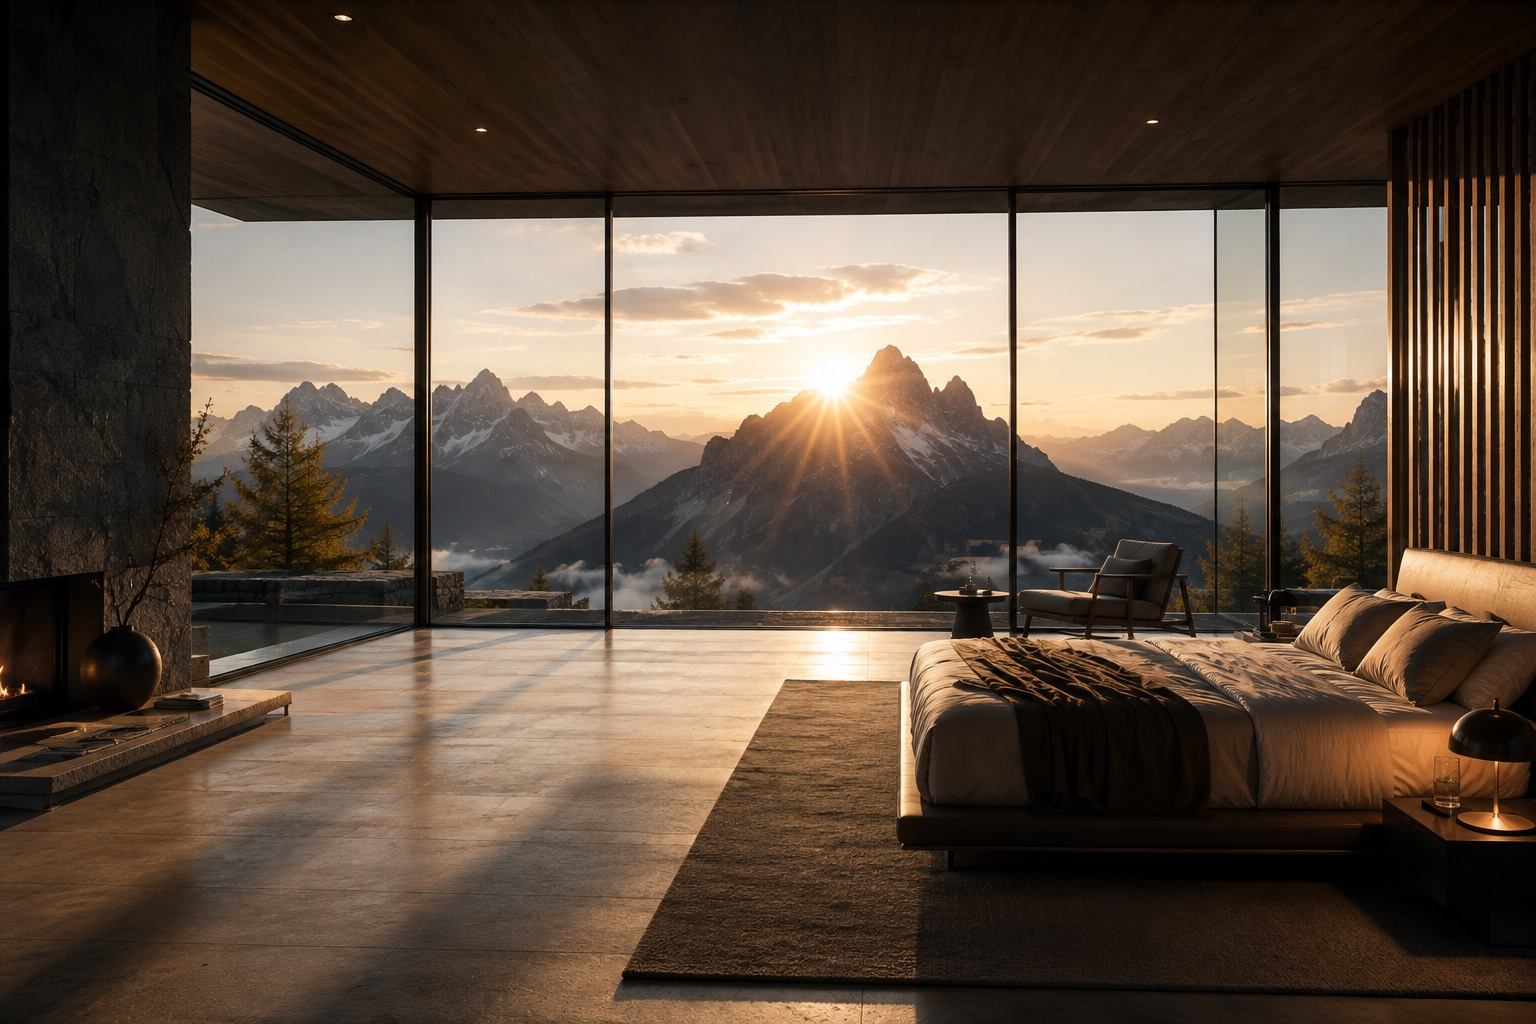
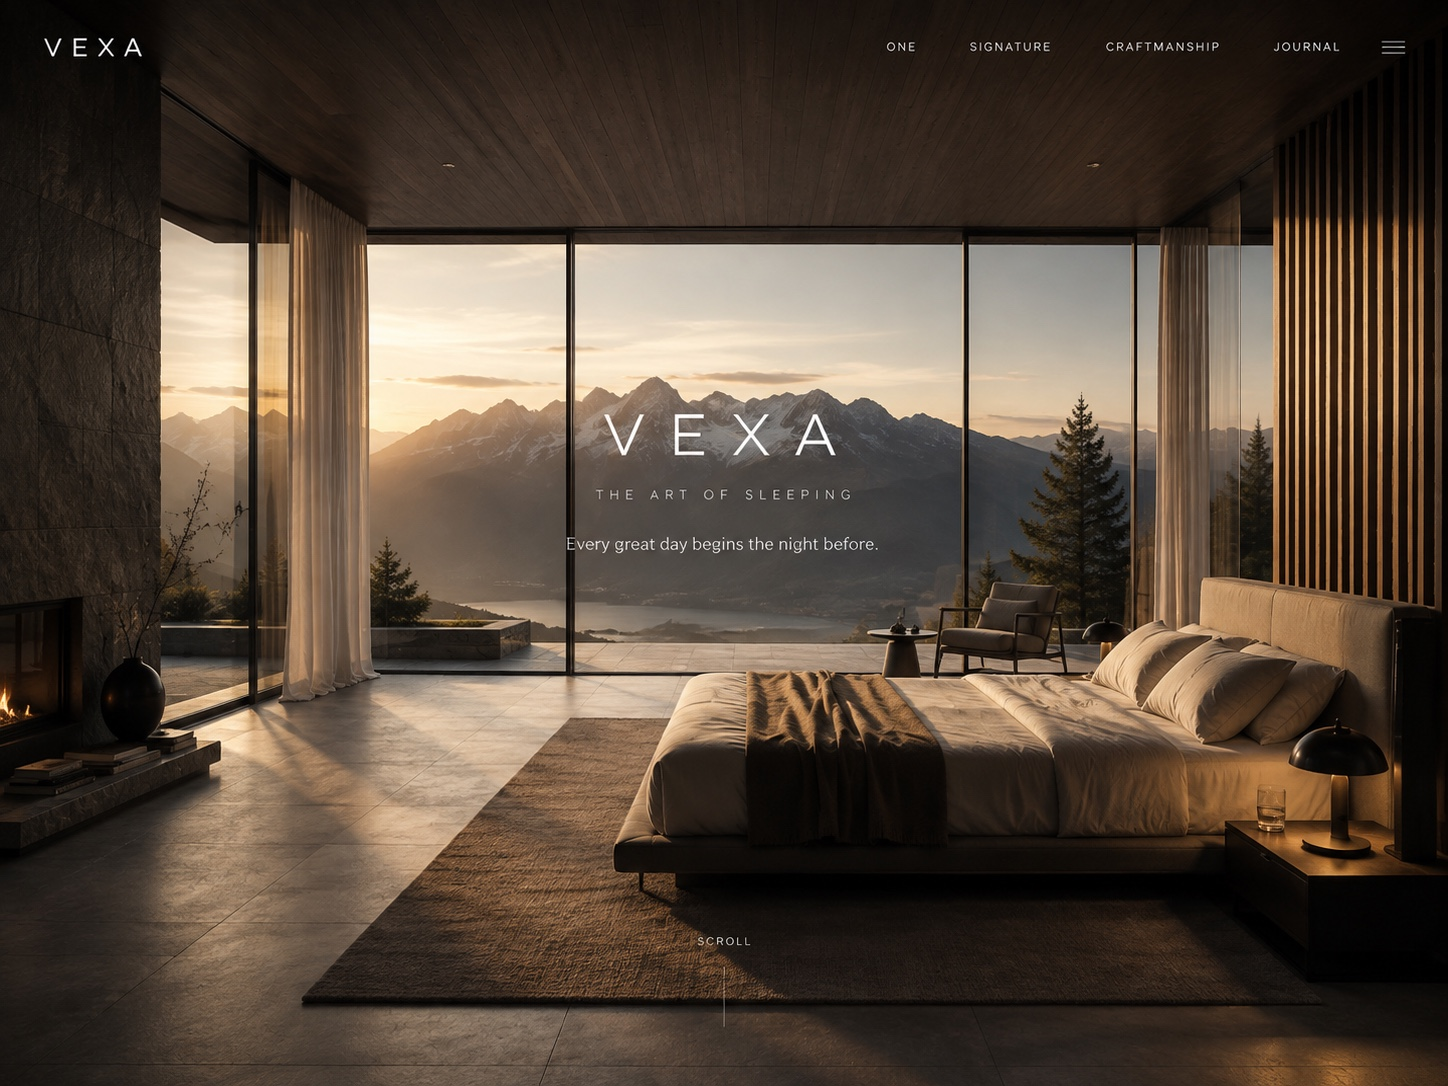
Use the approved mockup photo as-is; drop the competing text overlay
- Replace public/hero-villa.jpg with the newly supplied reference photo
  (unmodified)
- That photo already composes its own typography and nav treatment into
  the pixels, so IntroScene no longer renders a separate animated logo/
  kicker/headline/scroll-cue layer over it — doing so would double up
  against the baked-in text. Instead the whole frame does one slow
  reveal on load, and the same scroll-driven Ken Burns push + dissolve
  into the floating mattress hero continues unchanged
- The real Navbar (unchanged) still sits on top for actual navigation —
  its link set already matches the reference, so it reads as one
  cohesive nav rather than a duplicate

diff --git a/src/components/sections/intro-scene.tsx b/src/components/sections/intro-scene.tsx
@@ -3,10 +3,6 @@
 import Image from "next/image";
 import { motion, useMotionTemplate, type MotionValue } from "framer-motion";
 
-import { Logo } from "@/components/logo";
-
-const EASE = [0.16, 1, 0.3, 1] as const;
-
 type IntroSceneProps = {
   opacity: MotionValue<number>;
   photoScale: MotionValue<number>;
@@ -14,90 +10,33 @@ type IntroSceneProps = {
 };
 
 /**
- * Scene 01 — the real photograph, full-bleed. No illustration, no
- * reinterpretation: this is the client's own architectural photography.
- * On scroll the camera pushes in toward the bed (Ken Burns, transform-origin
- * pinned to the bed's actual position in the frame) while the room dissolves
+ * Scene 01 — the client's approved photograph, full-bleed and untouched.
+ * Its typography and navigation are already composed into the image itself,
+ * so this component adds no competing text layer (that would double up
+ * against the baked-in composition) — only a single slow reveal on load,
+ * then a scroll-driven Ken Burns push toward the bed as the room dissolves
  * to black, handing off to the floating product mattress in Scene 02.
  */
 export function IntroScene({ opacity, photoScale, blur }: IntroSceneProps) {
   const filter = useMotionTemplate`blur(${blur}px)`;
 
   return (
-    <motion.div style={{ opacity }} className="absolute inset-0 overflow-hidden">
+    <motion.div style={{ opacity }} className="absolute inset-0 overflow-hidden bg-black">
       <motion.div
-        style={{ scale: photoScale, filter, transformOrigin: "78% 66%" }}
+        initial={{ opacity: 0 }}
+        animate={{ opacity: 1 }}
+        transition={{ duration: 2.2, ease: [0.16, 1, 0.3, 1] }}
+        style={{ scale: photoScale, filter, transformOrigin: "72% 66%" }}
         className="absolute inset-0"
       >
         <Image
           src="/hero-villa.jpg"
-          alt="Contemporary villa bedroom with floor-to-ceiling glass overlooking a mountain sunrise"
+          alt="VEXA — contemporary villa bedroom with floor-to-ceiling glass overlooking a mountain sunrise"
           fill
           priority
           sizes="100vw"
           className="object-cover"
         />
-      </motion.div>
-
-      {/* Top vignette — keeps the navbar and headline legible over the bright sky */}
-      <div className="absolute inset-x-0 top-0 h-[46vh] bg-[linear-gradient(to_bottom,rgba(5,5,5,0.62),rgba(5,5,5,0.12)_65%,transparent)]" />
-      <div className="absolute inset-x-0 bottom-0 h-1/4 bg-[linear-gradient(to_top,rgba(5,5,5,0.4),transparent)]" />
-
-      {/* Almost no interface: logo, kicker, headline — fading in slowly, in sequence */}
-      <div className="relative z-10 flex h-full w-full flex-col items-center justify-start px-6 pt-[15vh] text-center sm:pt-[16vh]">
-        <motion.div
-          initial={{ opacity: 0, y: 10 }}
-          animate={{ opacity: 1, y: 0 }}
-          transition={{ duration: 1.4, ease: EASE, delay: 0.6 }}
-        >
-          <Logo
-            markClassName="h-4 w-4 sm:h-5 sm:w-5"
-            wordmarkClassName="text-base text-white sm:text-lg"
-          />
-        </motion.div>
-
-        <motion.div
-          initial={{ opacity: 0, y: 10 }}
-          animate={{ opacity: 1, y: 0 }}
-          transition={{ duration: 1.4, ease: EASE, delay: 1.6 }}
-          className="mt-7 flex items-center gap-3 text-copper-200/90"
-        >
-          <span className="h-px w-8 bg-copper-300/50" />
-          <span className="text-[10.5px] font-medium uppercase tracking-[0.42em] sm:text-xs">
-            The Art of Sleeping
-          </span>
-          <span className="h-px w-8 bg-copper-300/50" />
-        </motion.div>
-
-        <motion.h1
-          initial={{ opacity: 0, y: 14 }}
-          animate={{ opacity: 1, y: 0 }}
-          transition={{ duration: 1.6, ease: EASE, delay: 2.6 }}
-          className="mt-7 max-w-2xl text-balance text-[clamp(1.5rem,3.6vw,2.5rem)] font-light leading-[1.25] tracking-[-0.01em] text-white"
-        >
-          Every great day begins the{" "}
-          <span className="font-display italic font-normal text-copper-200">
-            night before.
-          </span>
-        </motion.h1>
-      </div>
-
-      <motion.div
-        initial={{ opacity: 0 }}
-        animate={{ opacity: 1 }}
-        transition={{ delay: 3.4, duration: 1 }}
-        className="absolute inset-x-0 bottom-8 z-10 flex flex-col items-center gap-3 sm:bottom-10"
-      >
-        <span className="text-[10px] font-medium uppercase tracking-[0.35em] text-white/60">
-          Scroll
-        </span>
-        <span className="relative h-10 w-px overflow-hidden bg-white/15">
-          <motion.span
-            className="absolute inset-x-0 top-0 h-full bg-copper-300"
-            animate={{ y: ["-100%", "100%"] }}
-            transition={{ duration: 1.8, repeat: Infinity, ease: "easeInOut" }}
-          />
-        </span>
       </motion.div>
     </motion.div>
   );
